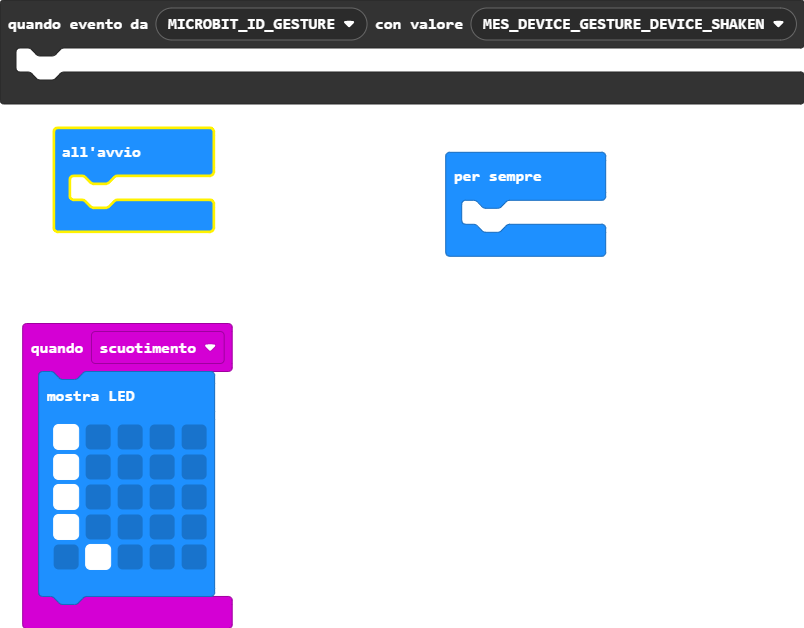
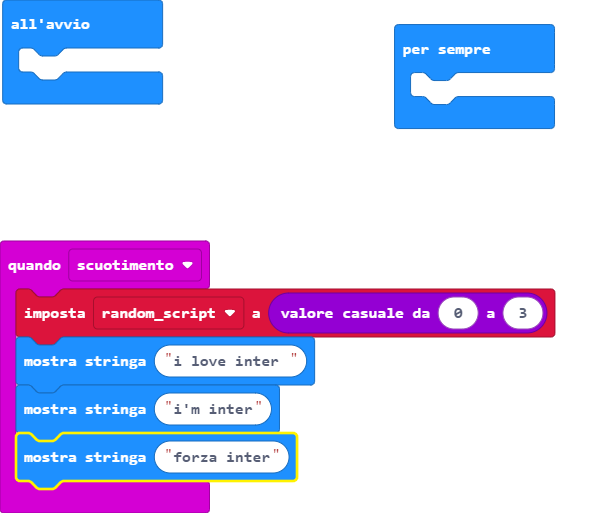
Aggiorna main.blocks, main.ts

diff --git a/main.ts b/main.ts
@@ -1,14 +1,9 @@
+let random_script = 0
 input.onGesture(Gesture.Shake, function () {
-    basic.showLeds(`
-        # . . . .
-        # . . . .
-        # . . . .
-        # . . . .
-        . # . . .
-        `)
-})
-control.onEvent(EventBusSource.MICROBIT_ID_GESTURE, EventBusValue.MES_DEVICE_GESTURE_DEVICE_SHAKEN, function () {
-	
+    random_script = randint(0, 3)
+    basic.showString("i love inter ")
+    basic.showString("i'm inter")
+    basic.showString("forza inter")
 })
 basic.forever(function () {
 	
